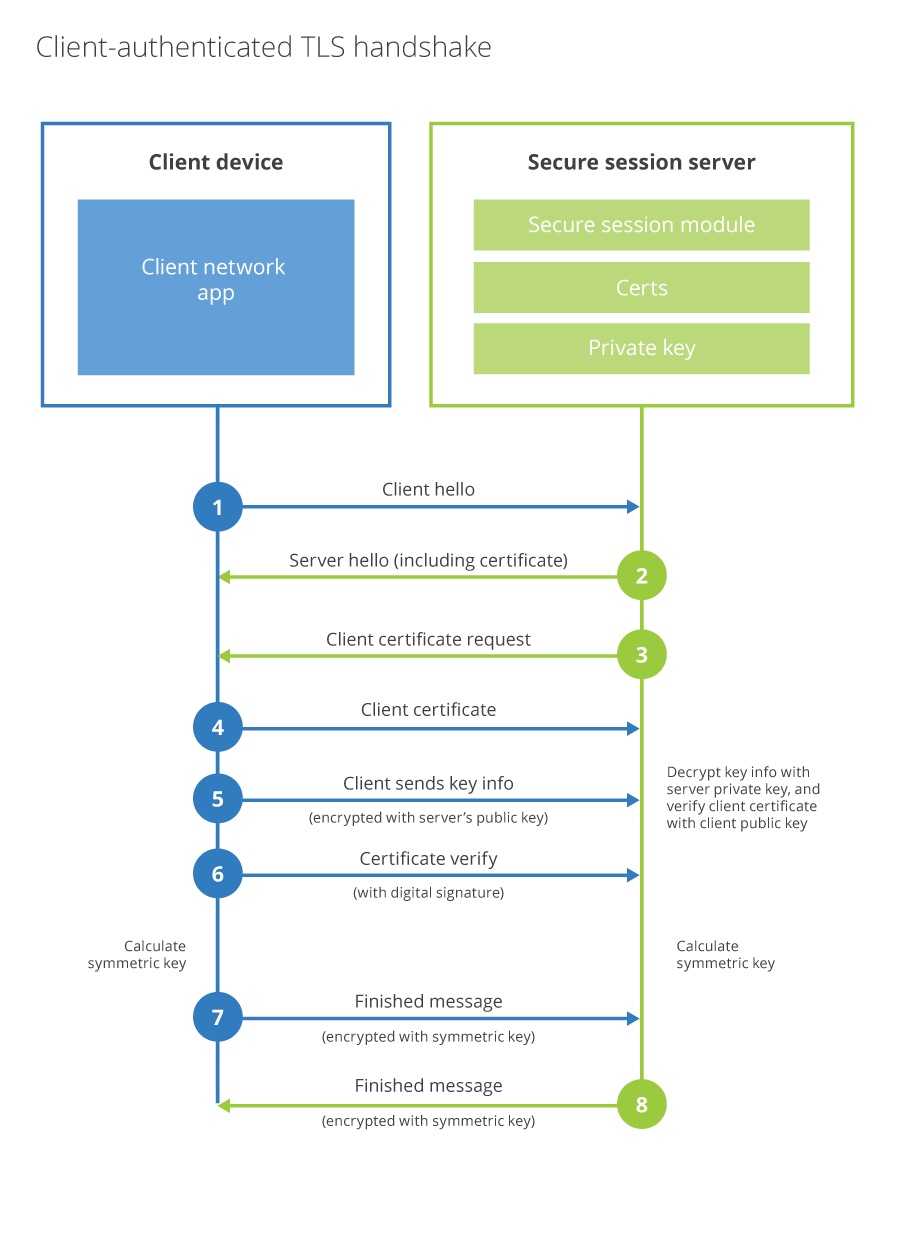
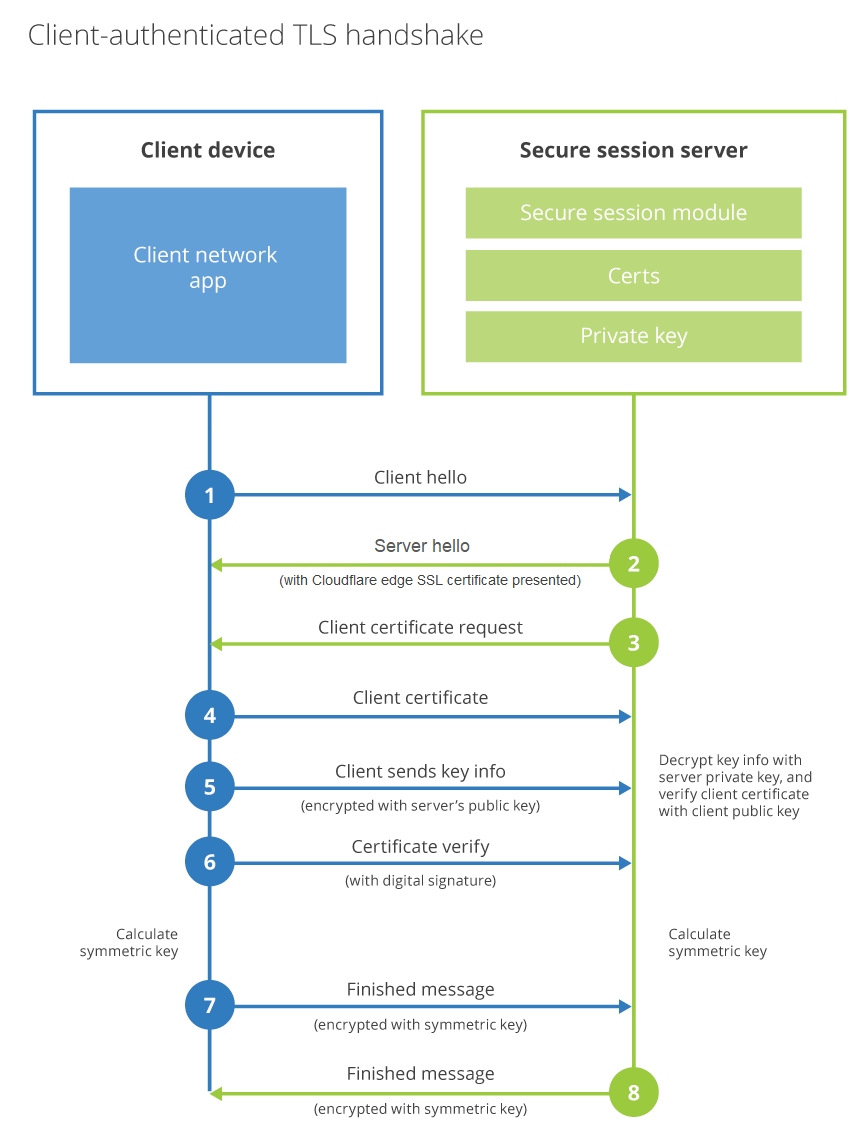
Update/pcx 985 access update mutual tls (#249)
* PCX-985 Access: Clarified use of certs in mTLS

* PCX-985 Restore package.json

Changed region(s): [[0.0312, 0.0916, 0.9988, 0.9773], [0.0312, 0.0305, 0.5618, 0.0611]]

diff --git a/products/access/src/content/access-service-auth/mutual-tls-authentication.md b/products/access/src/content/access-service-auth/mutual-tls-authentication.md
@@ -4,9 +4,10 @@ order: 2
 
 # Mutual TLS authentication
 
-<Aside>
+<Aside type='warning' header='Important'>
 
-Cloudflare Access can add mTLS to your application, but it requires a Cloudflare enterprise plan. To enforce mTLS in your application with Access, please contact your Cloudflare Customer Success Manager.
+Cloudflare Access can add mTLS to your application, but it requires a Cloudflare enterprise plan. To enforce mTLS in your application with Access, please contact your Cloudflare customer success manager.
+
 </Aside>
 
 Mutual TLS (mTLS) authentication ensures that traffic is both secure and trusted in both directions between a client and server. It allows requests that do not log in with an identity provider (like IoT devices) to demonstrate that they can reach a given resource. Client certificate authentication is also a second layer of security for team members who both log in with an identity provider (IdP) and present a valid client certificate.
@@ -24,6 +25,12 @@ To enforce mTLS authentication from the [Teams dashboard](https://dash.teams.clo
 2. Click **Add mTLS Certificate**.
 
     ![Root CA](../static/mtls-test/add-mtls.png)
+
+<Aside type='warning' header='Important'>
+
+The mTLS certificate is used **only** to verify the client certificate. It does **not** control the SSL certificate presented during the [server hello](https://www.cloudflare.com/learning/ssl/what-happens-in-a-tls-handshake/).
+
+</Aside>
 
 3. Paste the content of the `ca.pem` file in the Certificate content field.
 
@@ -189,9 +196,11 @@ The instructions here cover usage with a computer running MacOS.
 
 1. In the same working directory, run the following command to add the client certificate into the MacOS Keychain.
 
-<Aside>
 
-Warning: this will add the client certificate to the trusted store on your device. Only proceed if you are comfortable doing so and intend to keep these testing certificates safeguarded.
+<Aside type='warning' header='Important'>
+
+The command adds the client certificate to the trusted store on your device. **Only** proceed if you are comfortable doing so and intend to keep these testing certificates safeguarded.
+
 </Aside>
 
 ```sh

diff --git a/products/access/src/content/service-auth/mtls.md b/products/access/src/content/service-auth/mtls.md
@@ -4,13 +4,23 @@ order: 200
 
 # Mutual TLS authentication
 
-<div class="notices info">
+<Aside type='note' header='Note'>
+
 Cloudflare Access can add mTLS to your application, but it requires a Cloudflare enterprise plan. To enforce mTLS in your application with Access, please contact your Cloudflare Customer Success Manager.
-</div>
+
+</Aside>
 
 Mutual TLS (mTLS) authentication ensures that traffic is both secure and trusted in both directions between a client and server. It allows requests that do not log in with an identity provider (like IoT devices) to demonstrate that they can reach a given resource. Client certificate authentication is also a second layer of security for team members who both log in with an identity provider (IdP) and present a valid client certificate.
 
 With a root certificate authority (CA) in place, Access only allows requests from devices with a corresponding client certificate. When a request reaches the application, Access responds with a request for the client to present a certificate. If the device fails to present the certificate, the request is not allowed to proceed. If the client does have a certificate, Access completes a key exchange to verify.
+
+<Aside type='warning' header='Important'>
+
+The certificate presented by our edge as part of the server hello is our usual edge certificate (such as our custom or universal certificate).
+
+When you configure mTLS in Cloudflare Access, you must upload a certificate. This certificate is **only** used to verify the client certificate during the handshake. The mTLS configuration does not control the edge SSL certificate presented in the server hello.
+
+</Aside>
 
 ![mTLS Diagram](../static/mtls.png)
 
